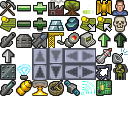
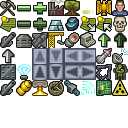
Added new buildings.

Changed region(s): [[0.875, 0.625, 1.0, 0.75]]

diff --git a/src/org/openRealmOfStars/starMap/planet/BuildingFactory.java b/src/org/openRealmOfStars/starMap/planet/BuildingFactory.java
@@ -33,7 +33,7 @@ public class BuildingFactory {
    * Remember to increase this when new building is added to game.
    * It should be one bigger than last index.
    */
-  private static final int MAX_BUILDING = 16;
+  private static final int MAX_BUILDING = 28;
   
   /**
    * Create planetary building with index
@@ -59,6 +59,18 @@ public class BuildingFactory {
     case 13: tmp = createPlanetaryImprovement(index); break; // Trade center
     case 14: tmp = createPlanetaryImprovement(index); break; // Extreme sports center
     case 15: tmp = createPlanetaryImprovement(index); break; // Recycle center
+    case 16: tmp = createProductionFacility(index); break; // Farming center
+    case 17: tmp = createProductionFacility(index); break; // Mining center
+    case 18: tmp = createProductionFacility(index); break; // Manufacturing center
+    case 19: tmp = createPlanetaryImprovement(index); break; // Radiation dampener
+    case 20: tmp = createProductionFacility(index); break; // Research center
+    case 21: tmp = createPlanetaryImprovement(index); break; // Stock market
+    case 22: tmp = createPlanetaryImprovement(index); break; // Galactic sports center
+    case 23: tmp = createPlanetaryImprovement(index); break; // New technology center
+    case 24: tmp = createPlanetaryImprovement(index); break; // VR movie center
+    case 25: tmp = createPlanetaryImprovement(index); break; // Advanced recycle center
+    case 26: tmp = createPlanetaryImprovement(index); break; // Galactic bank
+    case 27: tmp = createPlanetaryImprovement(index); break; // Radiation well
     }
     return tmp;
   }
@@ -162,6 +174,50 @@ public class BuildingFactory {
       tmp.setDescription("Fully equiped science laboratory.");
       return tmp;
     } 
+    if (index == 16) {
+      tmp = new Building(index, "Farming center", 
+          Icons.getIconByName(Icons.ICON_FARM), BuildingType.FARM);
+      tmp.setFarmBonus(3);
+      tmp.setProdCost(30);
+      tmp.setMetalCost(20);
+      tmp.setMaintenanceCost(0.25);
+      tmp.setDescription("Group of automated farms.");
+      tmp.setSingleAllowed(true);
+      return tmp;
+    } 
+    if (index == 17) {
+      tmp = new Building(index, "Mining center", 
+          Icons.getIconByName(Icons.ICON_MINE), BuildingType.MINE);
+      tmp.setMineBonus(3);
+      tmp.setProdCost(30);
+      tmp.setMetalCost(24);
+      tmp.setMaintenanceCost(0.25);
+      tmp.setDescription("Group of automated mines.");
+      tmp.setSingleAllowed(true);
+      return tmp;
+    } 
+    if (index == 18) {
+      tmp = new Building(index, "Manufacturing center", 
+          Icons.getIconByName(Icons.ICON_FACTORY), BuildingType.FACTORY);
+      tmp.setFactBonus(3);
+      tmp.setProdCost(40);
+      tmp.setMetalCost(20);
+      tmp.setMaintenanceCost(0.25);
+      tmp.setDescription("Group of automated factories.");
+      tmp.setSingleAllowed(true);
+      return tmp;
+    } 
+    if (index == 20) {
+      tmp = new Building(index, "Research center", 
+          Icons.getIconByName(Icons.ICON_RESEARCH), BuildingType.RESEARCH);
+      tmp.setReseBonus(3);
+      tmp.setProdCost(36);
+      tmp.setMetalCost(16);
+      tmp.setMaintenanceCost(0.25);
+      tmp.setDescription("Group of research laboratories.");
+      tmp.setSingleAllowed(true);
+      return tmp;
+    } 
     return tmp;
   }
   
@@ -178,7 +234,7 @@ public class BuildingFactory {
       tmp.setDescription("Allows building the space ships.");
       tmp.setProdCost(20);
       tmp.setMetalCost(20);
-      tmp.setMaintenanceCost(1.0);
+      tmp.setMaintenanceCost(0.5);
       tmp.setSingleAllowed(true);
       return tmp;
     } 
@@ -243,7 +299,7 @@ public class BuildingFactory {
       tmp.setDescription("Violent sports is a culture too.");
       tmp.setProdCost(30);
       tmp.setMetalCost(22);
-      tmp.setMaintenanceCost(1);
+      tmp.setMaintenanceCost(0.5);
       tmp.setCultBonus(2);
       tmp.setBattleBonus(110);
       tmp.setSingleAllowed(true);
@@ -257,6 +313,93 @@ public class BuildingFactory {
       tmp.setMetalCost(5);
       tmp.setMaintenanceCost(1);
       tmp.setRecycleBonus(50);
+      tmp.setSingleAllowed(true);
+      return tmp;
+    } 
+    if (index == 19) {
+      tmp = new Building(index, "Radiation dampener", 
+          Icons.getIconByName(Icons.ICON_RADIATION), BuildingType.FACTORY);
+      tmp.setDescription("Decrease planet radiation by one.");
+      tmp.setProdCost(20);
+      tmp.setMetalCost(20);
+      tmp.setMaintenanceCost(1);
+      tmp.setSingleAllowed(true);
+      return tmp;
+    } 
+    if (index == 21) {
+      tmp = new Building(index, "Stock market", 
+          Icons.getIconByName(Icons.ICON_CREDIT), BuildingType.CREDIT);
+      tmp.setDescription("Planetary stock market");
+      tmp.setProdCost(36);
+      tmp.setMetalCost(24);
+      tmp.setMaintenanceCost(0);
+      tmp.setCredBonus(3);
+      tmp.setSingleAllowed(true);
+      return tmp;
+    } 
+    if (index == 22) {
+      tmp = new Building(index, "Galactic sports center", 
+          Icons.getIconByName(Icons.ICON_CULTURE), BuildingType.CULTURE);
+      tmp.setDescription("Galactic sports stadium where \nbrutal football is played.");
+      tmp.setProdCost(40);
+      tmp.setMetalCost(30);
+      tmp.setMaintenanceCost(1);
+      tmp.setCultBonus(3);
+      tmp.setBattleBonus(120);
+      tmp.setSingleAllowed(true);
+      return tmp;
+    } 
+    if (index == 23) {
+      tmp = new Building(index, "New technology center", 
+          Icons.getIconByName(Icons.ICON_RESEARCH), BuildingType.RESEARCH);
+      tmp.setDescription("New technology is studied and used in culture.");
+      tmp.setProdCost(20);
+      tmp.setMetalCost(20);
+      tmp.setMaintenanceCost(0.5);
+      tmp.setReseBonus(3);
+      tmp.setCultBonus(1);
+      tmp.setSingleAllowed(true);
+      return tmp;
+    } 
+    if (index == 24) {
+      tmp = new Building(index, "VR movie center", 
+          Icons.getIconByName(Icons.ICON_CULTURE), BuildingType.CULTURE);
+      tmp.setDescription("Galactic VR movie studio");
+      tmp.setProdCost(30);
+      tmp.setMetalCost(30);
+      tmp.setCredBonus(2);
+      tmp.setCultBonus(2);
+      tmp.setSingleAllowed(true);
+      return tmp;
+    } 
+    if (index == 25) {
+      tmp = new Building(index, "Advanced recycle center", 
+          Icons.getIconByName(Icons.ICON_IMPROVEMENT_TECH), BuildingType.FACTORY);
+      tmp.setDescription("When destroying buildings or ships 75%\nmetal is recycled.");
+      tmp.setProdCost(25);
+      tmp.setMetalCost(10);
+      tmp.setMaintenanceCost(1);
+      tmp.setRecycleBonus(75);
+      tmp.setSingleAllowed(true);
+      return tmp;
+    } 
+    if (index == 26) {
+      tmp = new Building(index, "Galactic bank", 
+          Icons.getIconByName(Icons.ICON_CREDIT), BuildingType.CREDIT);
+      tmp.setDescription("Galactic bank is good business.");
+      tmp.setProdCost(40);
+      tmp.setMetalCost(20);
+      tmp.setCredBonus(4);
+      tmp.setSingleAllowed(true);
+      return tmp;
+    } 
+    if (index == 27) {
+      tmp = new Building(index, "Radiation well", 
+          Icons.getIconByName(Icons.ICON_RADIATION), BuildingType.FACTORY);
+      tmp.setDescription("Decrease planet radiation by one.");
+      tmp.setProdCost(20);
+      tmp.setMetalCost(20);
+      tmp.setMaintenanceCost(1);
       tmp.setSingleAllowed(true);
       return tmp;
     } 

diff --git a/src/org/openRealmOfStars/gui/icons/Icons.java b/src/org/openRealmOfStars/gui/icons/Icons.java
@@ -79,6 +79,7 @@ public class Icons {
   public static final String ICON_STARBASE = "StarBase";
   public static final String ICON_LR_SCANNER = "LRScanner";
   public static final String ICON_CIRCUIT_BOARD = "CircuitBoard";
+  public static final String ICON_RADIATION = "Radiation";
   
   /**
    * List of Icon
@@ -244,6 +245,8 @@ public class Icons {
     icon = new Icon16x16(image, 5, 5,ICON_LR_SCANNER);
     addIcon(icon);
     icon = new Icon16x16(image, 6, 5,ICON_CIRCUIT_BOARD);
+    addIcon(icon);
+    icon = new Icon16x16(image, 7, 5,ICON_RADIATION);
     addIcon(icon);
   }
   
